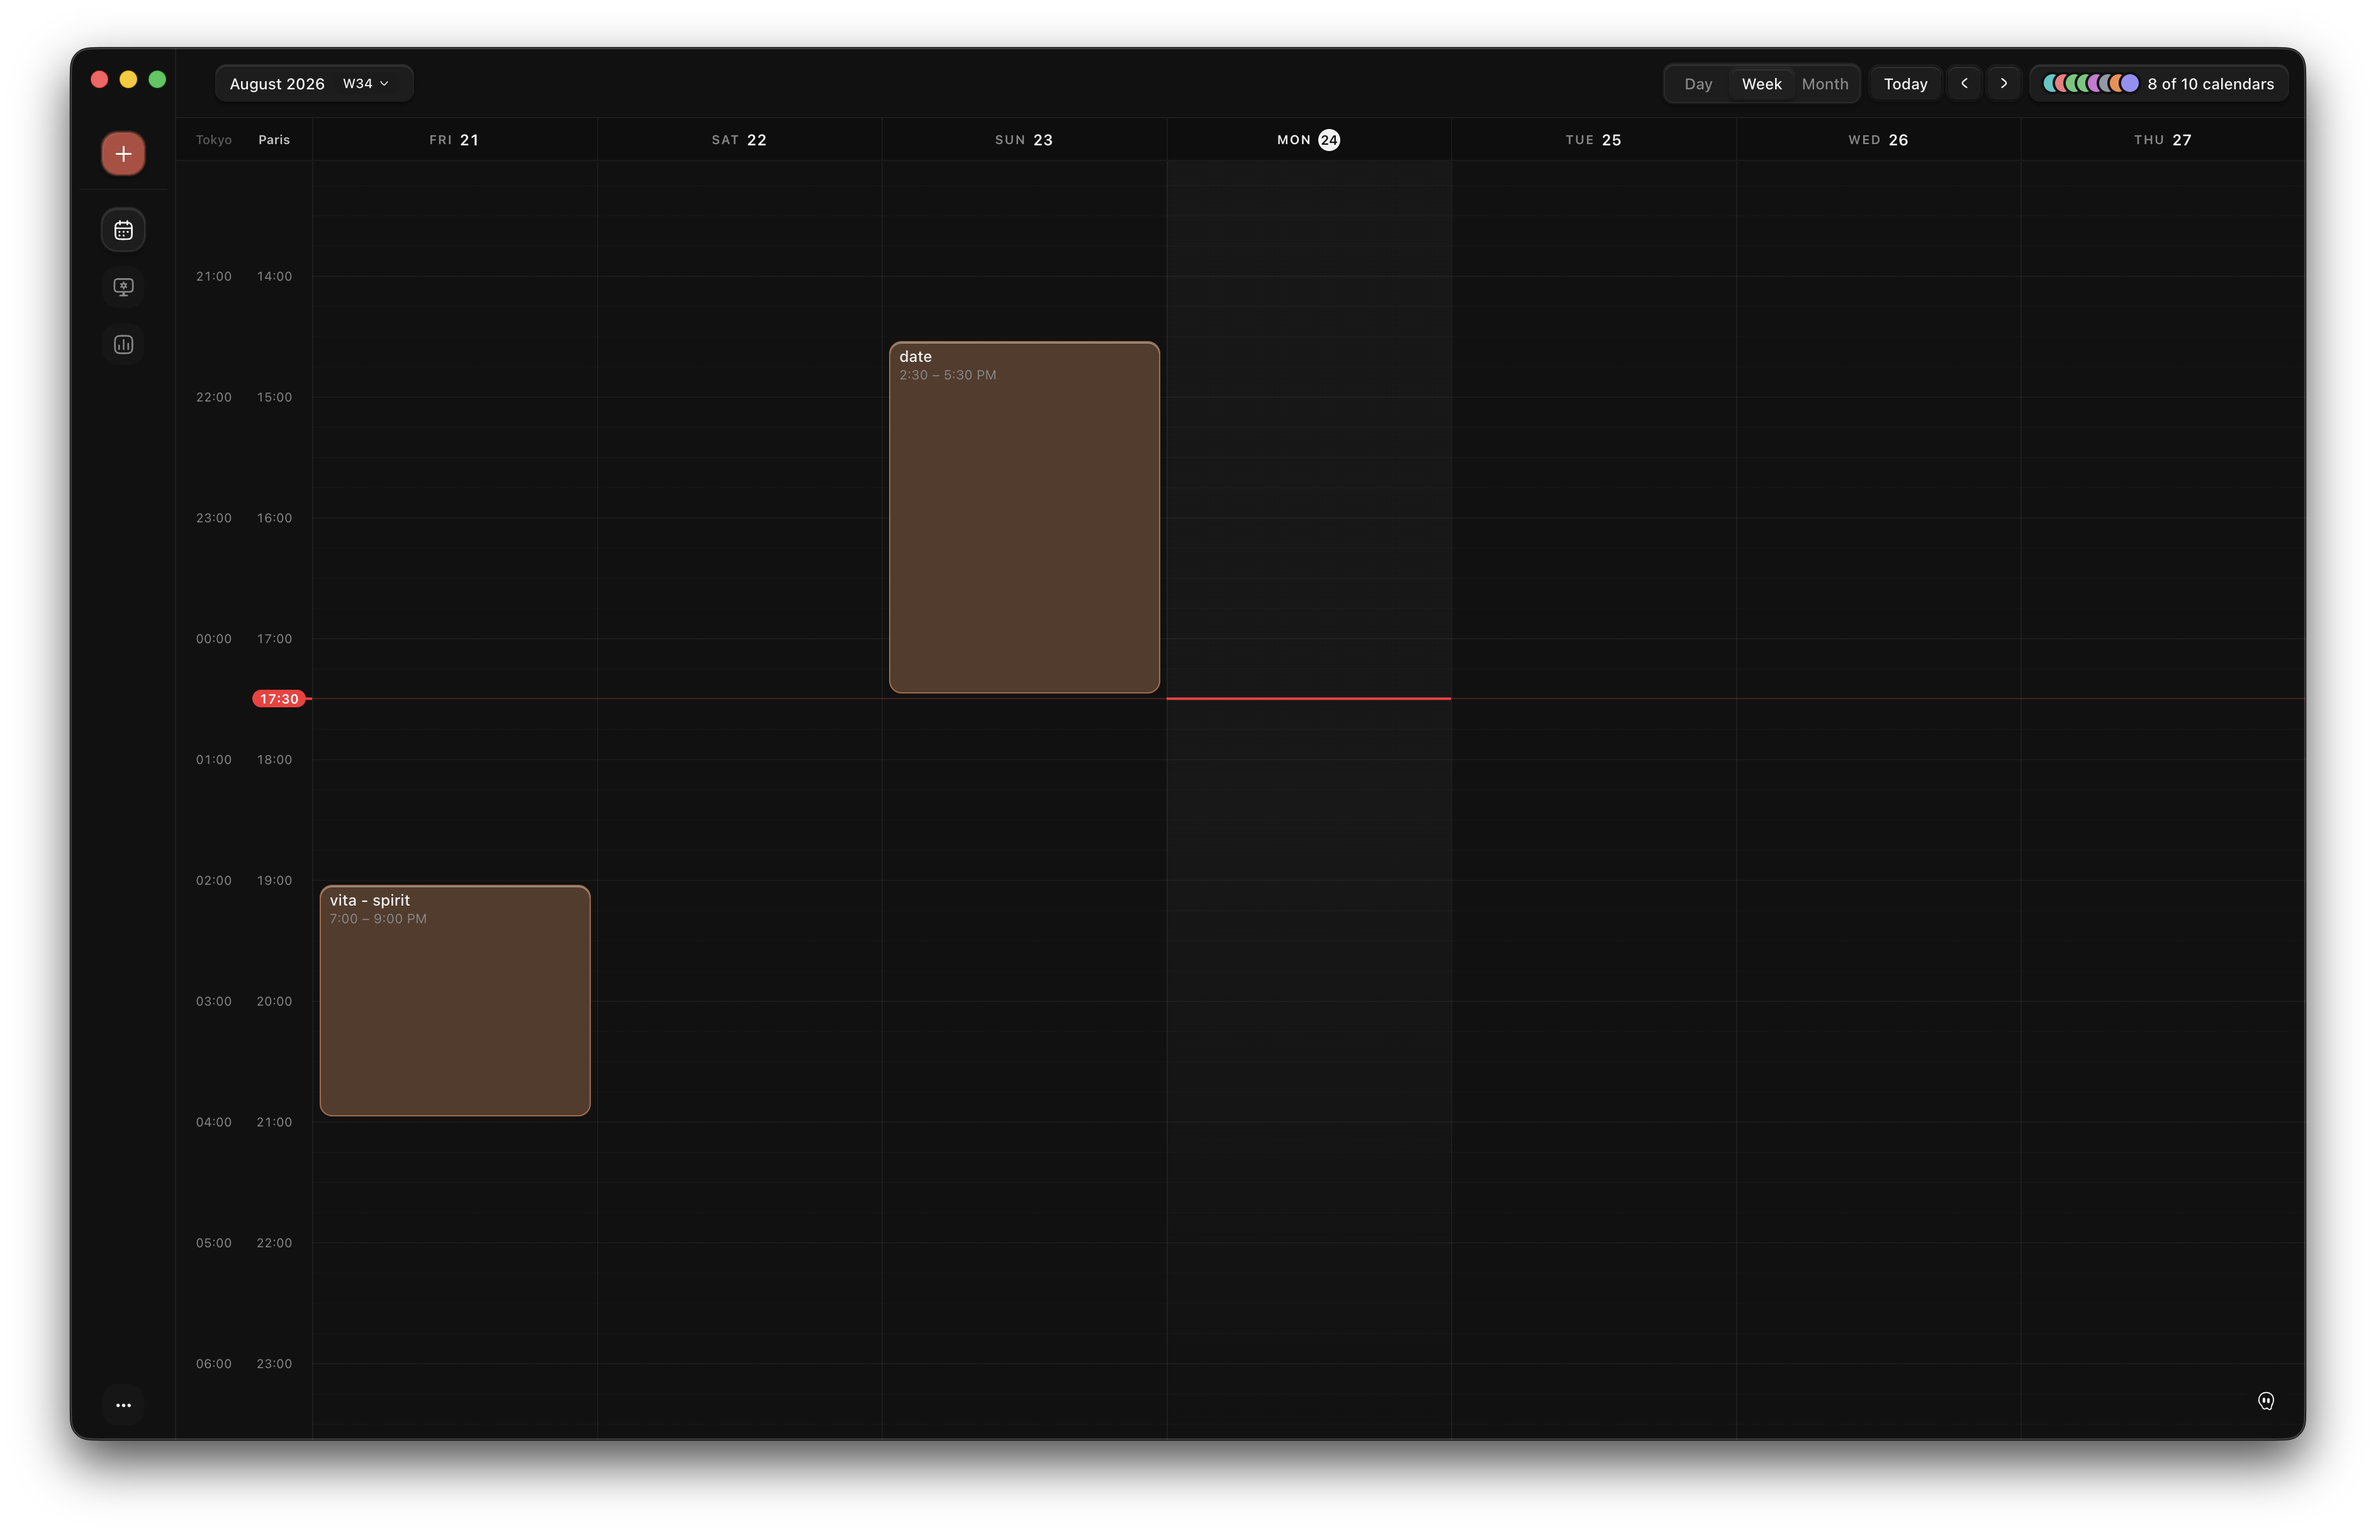
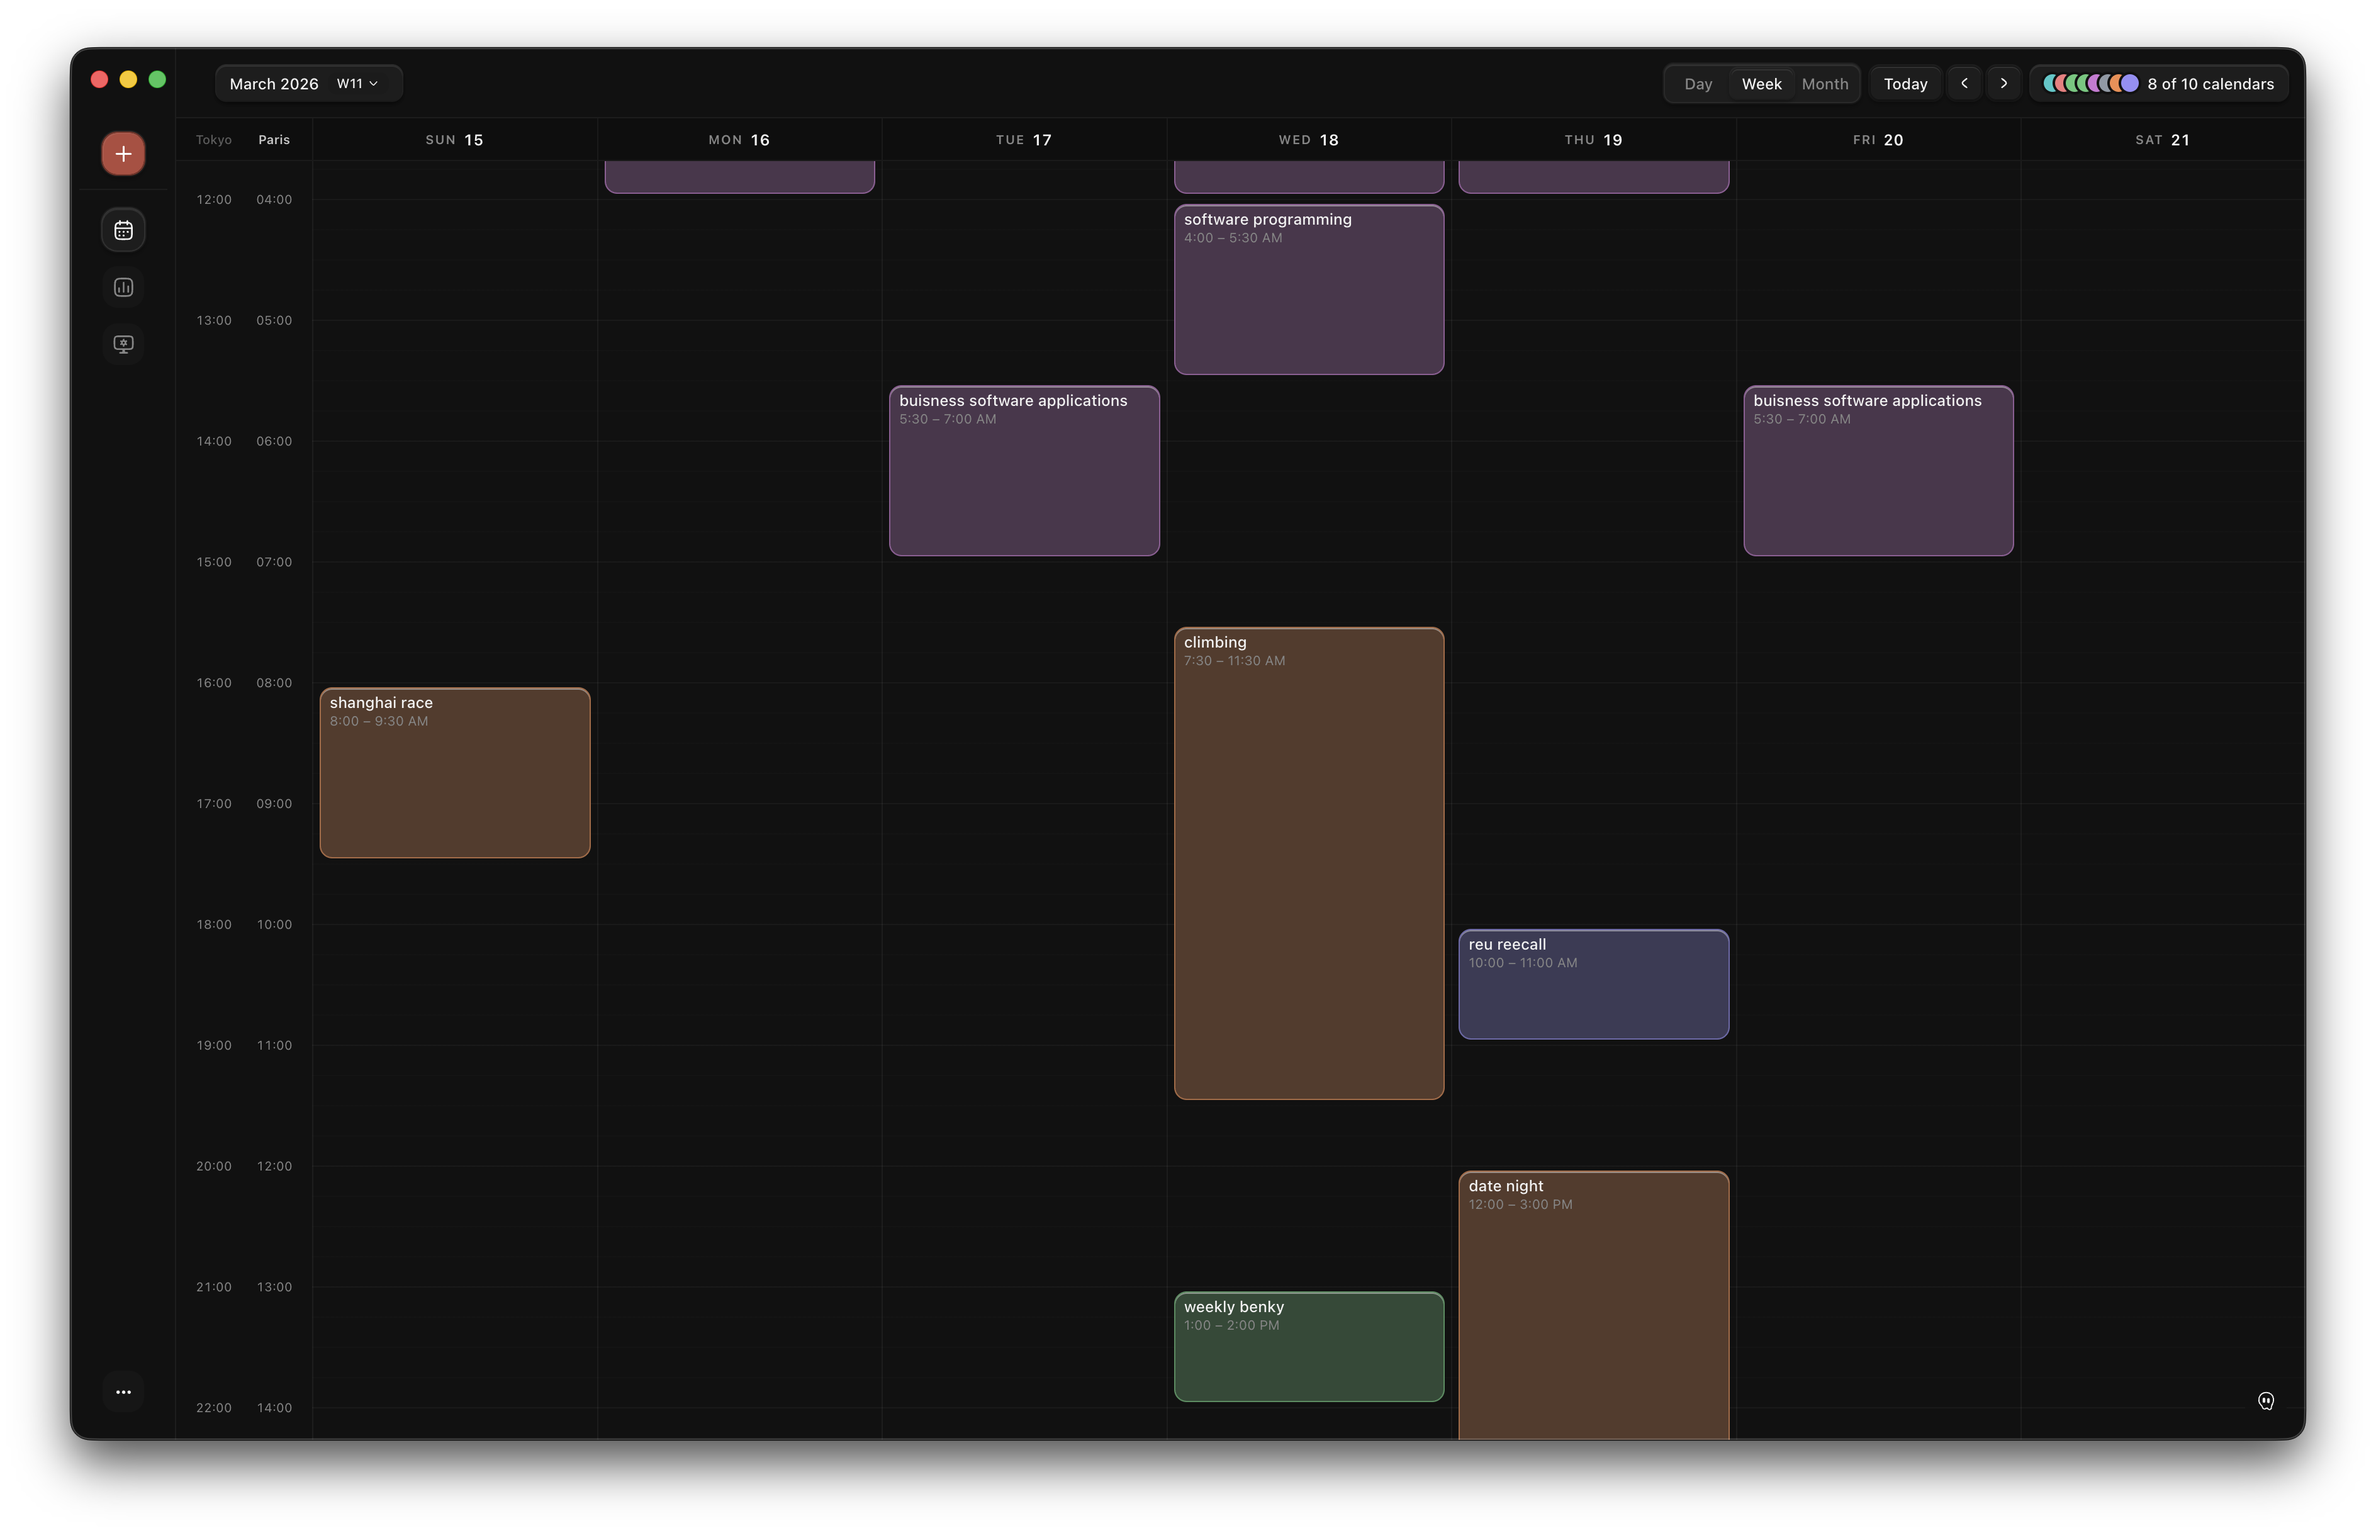
docs: refresh product screenshots

diff --git a/README.md b/README.md
@@ -31,11 +31,19 @@ in macOS Keychain.
 
 Qali is built for Apple Silicon Macs running macOS 12 or later.
 
+## Month at a glance
+
+The month view keeps recurring schedules, calendar colors, and several weeks
+of context visible without opening each day.
+
+![Qali month view with recurring events across multiple calendars](docs/assets/screenshots/month.png)
+
 ## Calendar Insights
 
 Insights are computed from the calendar data already stored on the device. The
-28-day view shows event count, scheduled time, average duration, busiest day,
-daily load, and weekday patterns.
+28-day view shows event count, scheduled time, average and longest events,
+active days, daily load, event cadence, weekday patterns, and time-of-day
+distribution.
 
 ![Qali Calendar Insights with event counters and scheduled-time charts](docs/assets/screenshots/insights.png)
 

diff --git a/docs/README.md b/docs/README.md
@@ -23,6 +23,10 @@ limited to a versioned preload contract.
 
 ## Product views
 
+| Week view | Month view |
+| --- | --- |
+| ![Qali week view](assets/screenshots/calendar.png) | ![Qali month view](assets/screenshots/month.png) |
+
 | Calendar Insights | Searchable settings |
 | --- | --- |
 | ![Calendar Insights](assets/screenshots/insights.png) | ![Searchable Qali settings](assets/screenshots/settings.png) |
